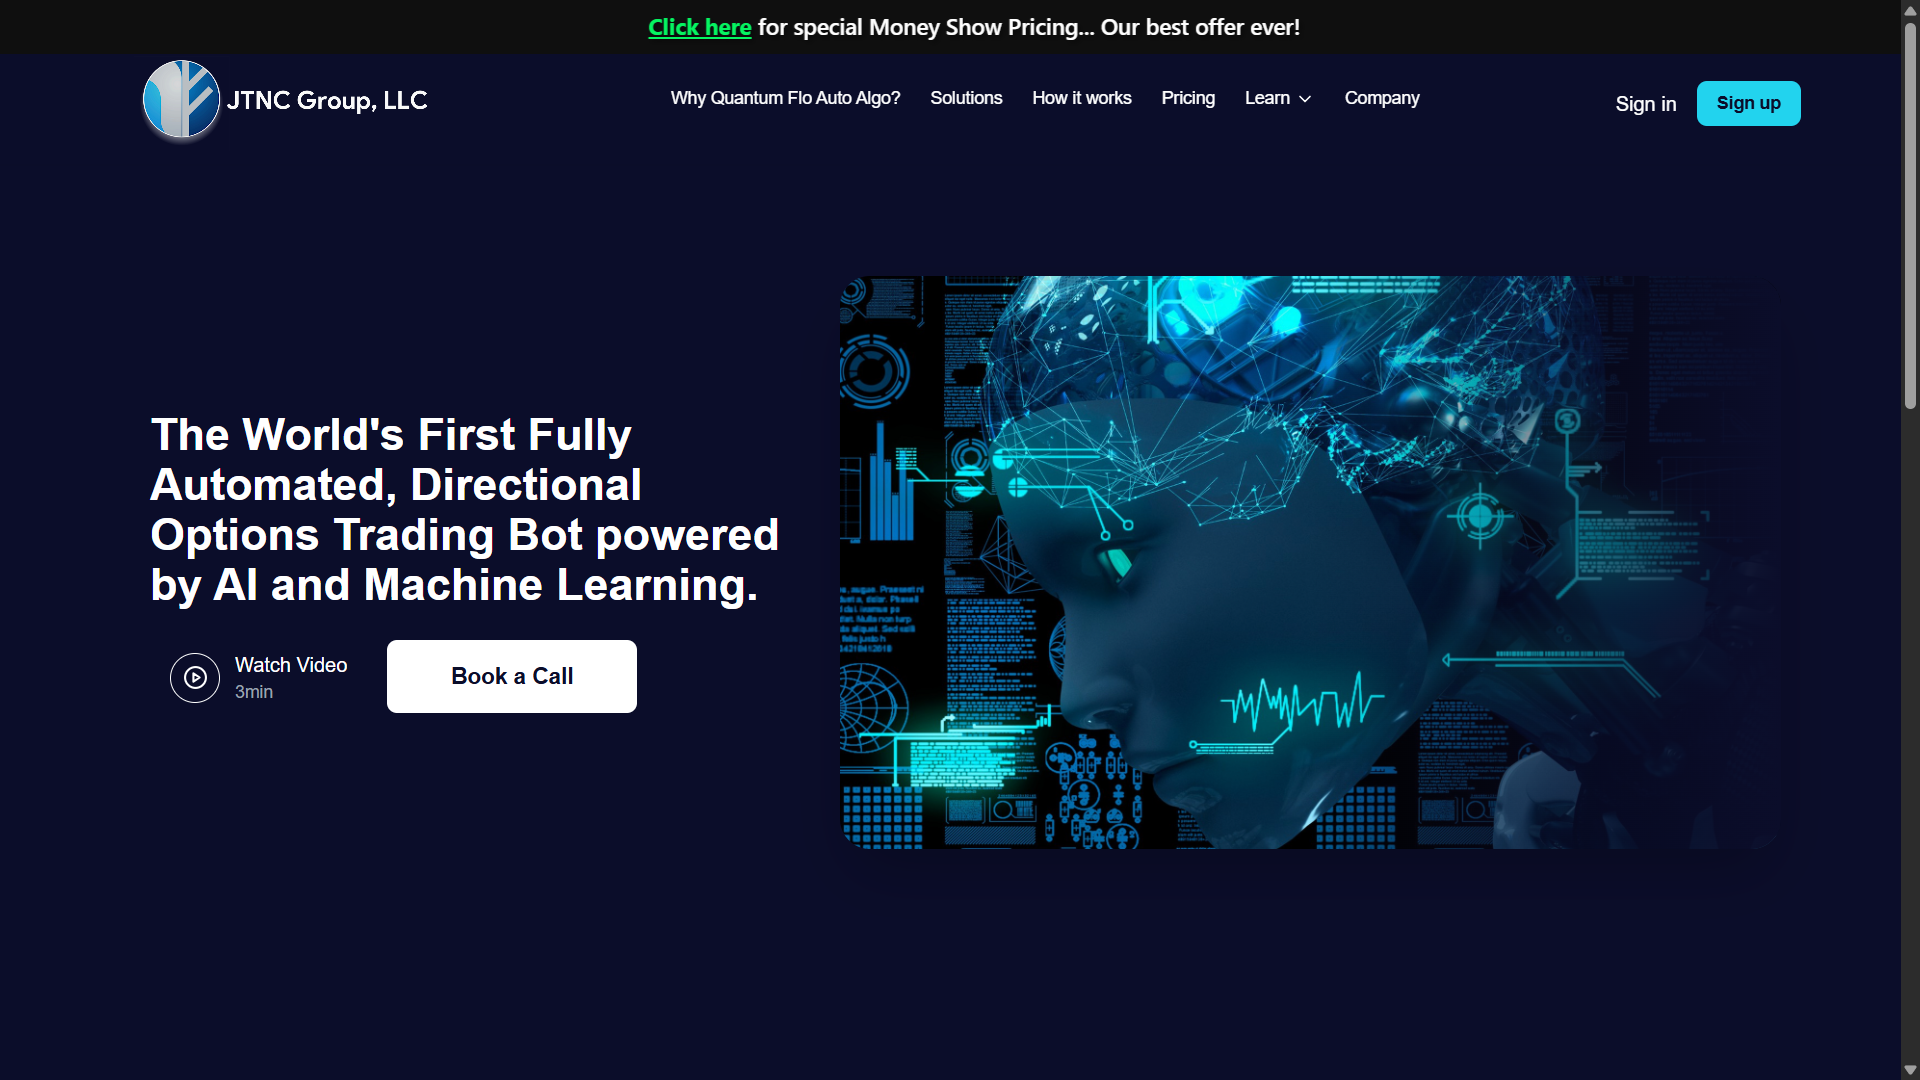
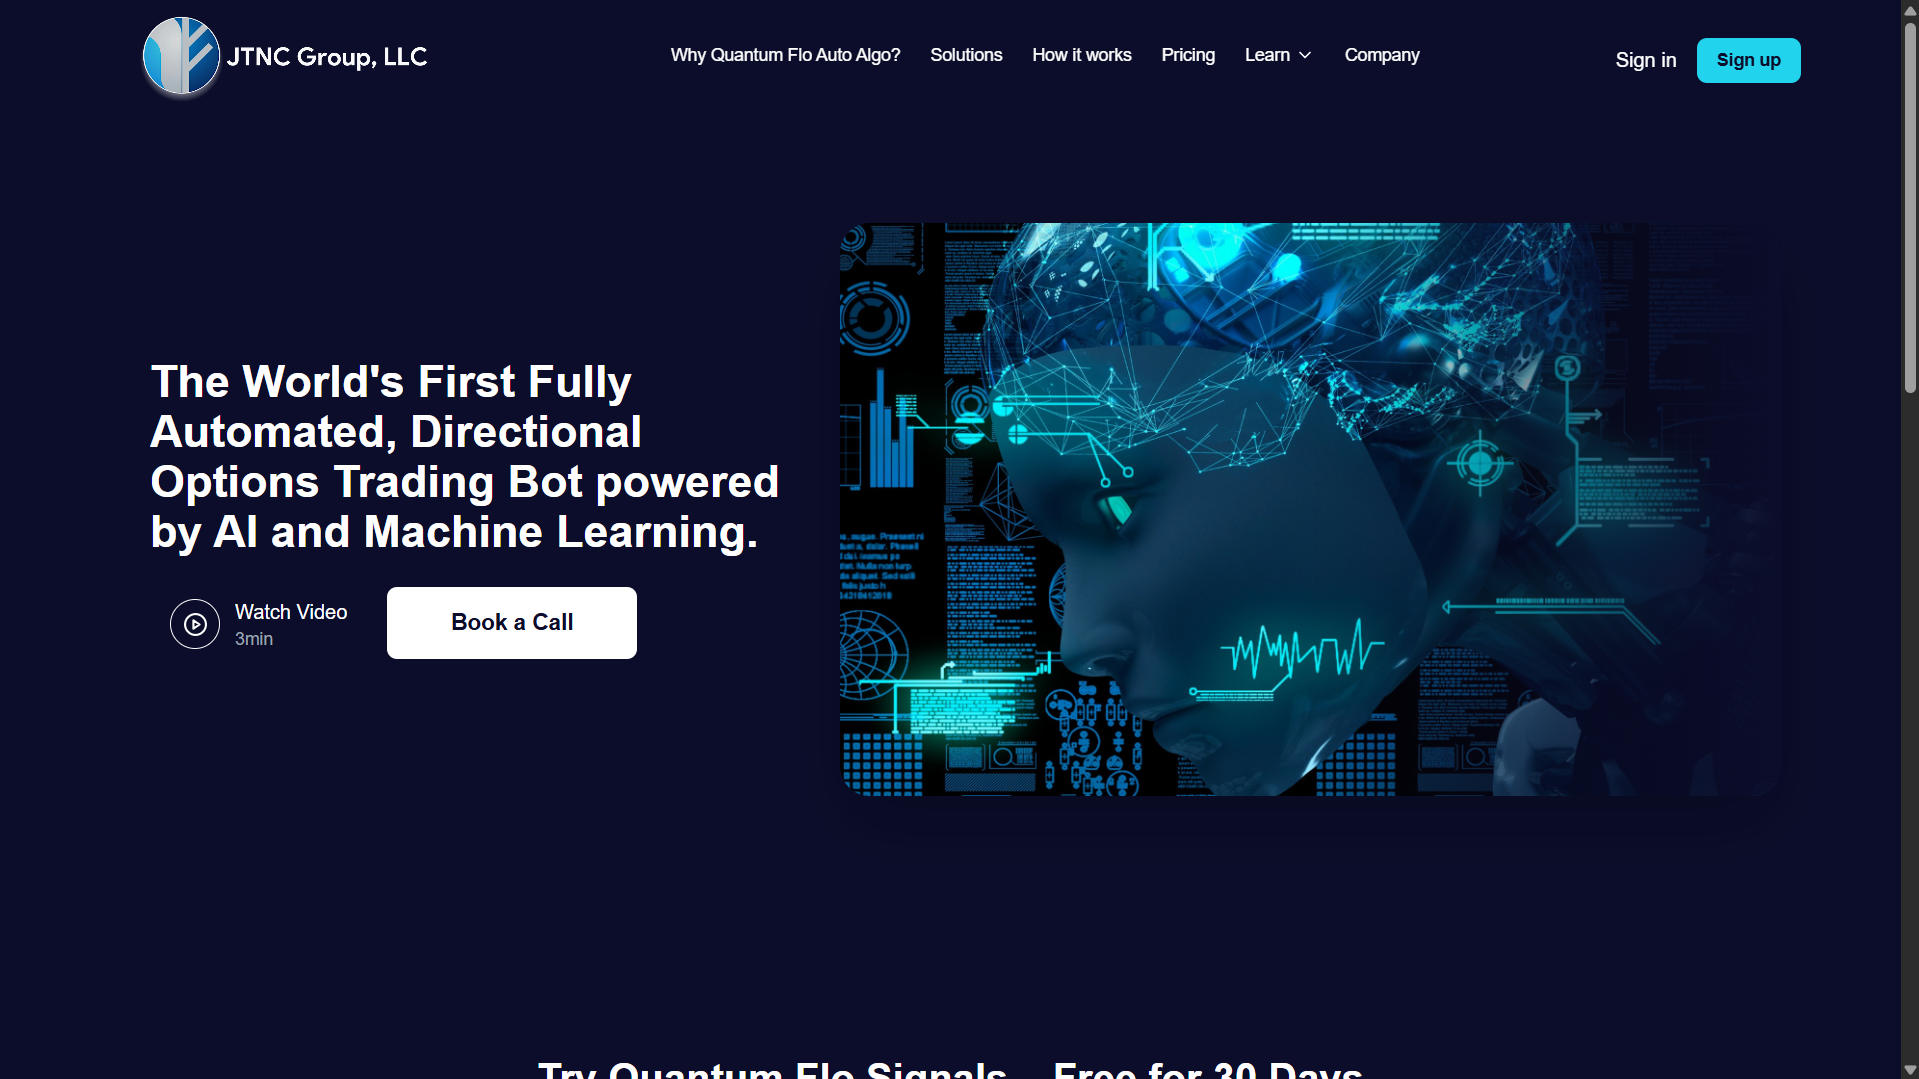
Update JTNC side image to Jntc2.jpg

diff --git a/src/app/projects/jtnc-group/page.tsx b/src/app/projects/jtnc-group/page.tsx
@@ -56,6 +56,19 @@ export default function JtncGroupCaseStudy() {
         </div>
       </div>
 
+      {/* Hero Carousel */}
+      <div className="mb-16">
+        <div className="relative w-full aspect-video rounded-2xl overflow-hidden border border-gray-800">
+          <Image
+            src="/images/jtnc.png"
+            alt="JTNC Group Main Preview"
+            fill
+            className="object-cover"
+            priority
+          />
+        </div>
+      </div>
+
       {/* Intro & Actions */}
       <div className="grid lg:grid-cols-2 gap-12 items-center mb-32">
         <div className="space-y-8">
@@ -81,7 +94,7 @@ export default function JtncGroupCaseStudy() {
           className="relative w-full h-[300px] lg:h-[450px]"
         >
           <Image
-            src="/images/jtnc.png"
+            src="/images/Jntc2.jpg"
             alt="JTNC Group Application Screenshot"
             fill
             className="object-contain"
